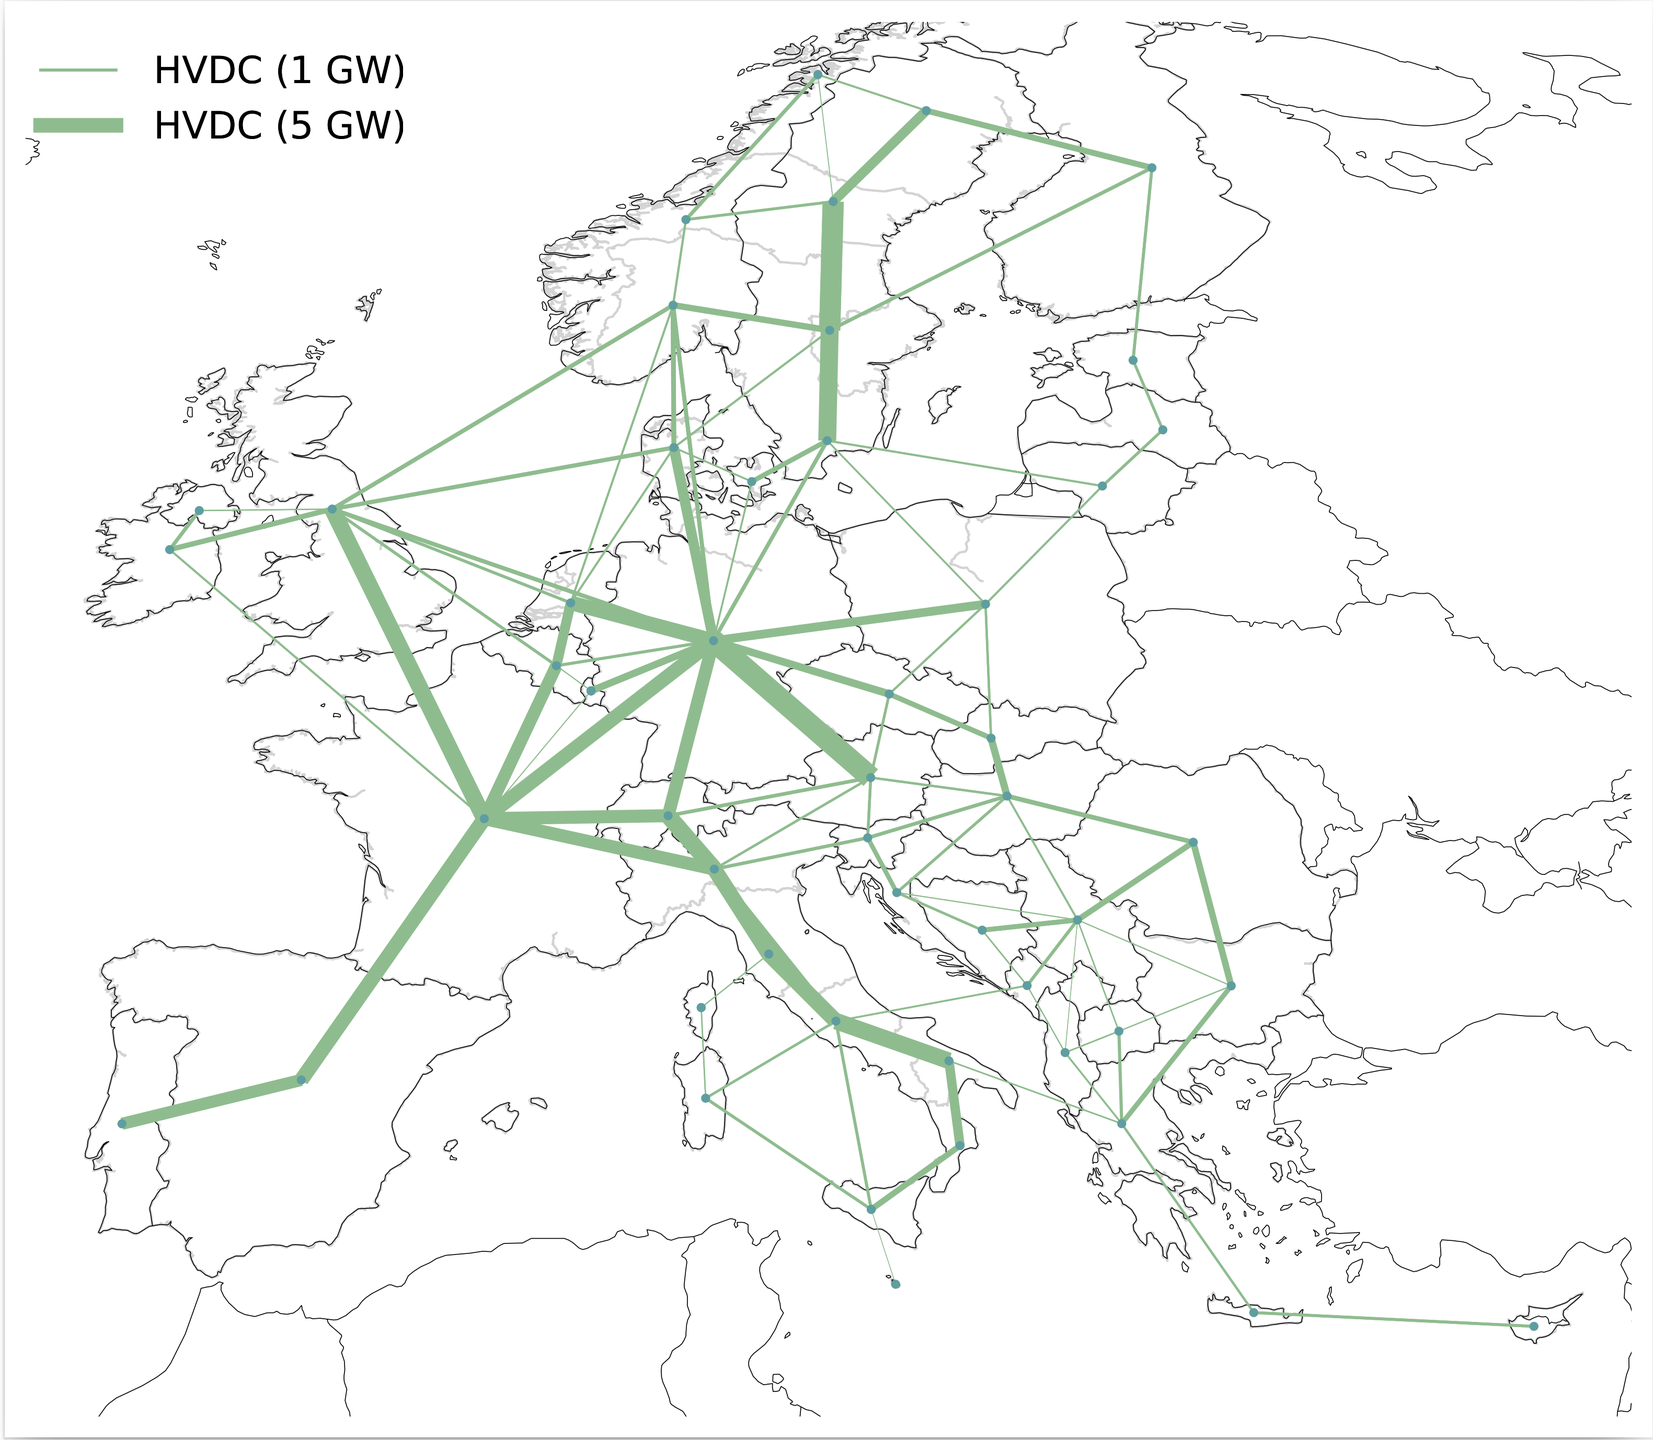
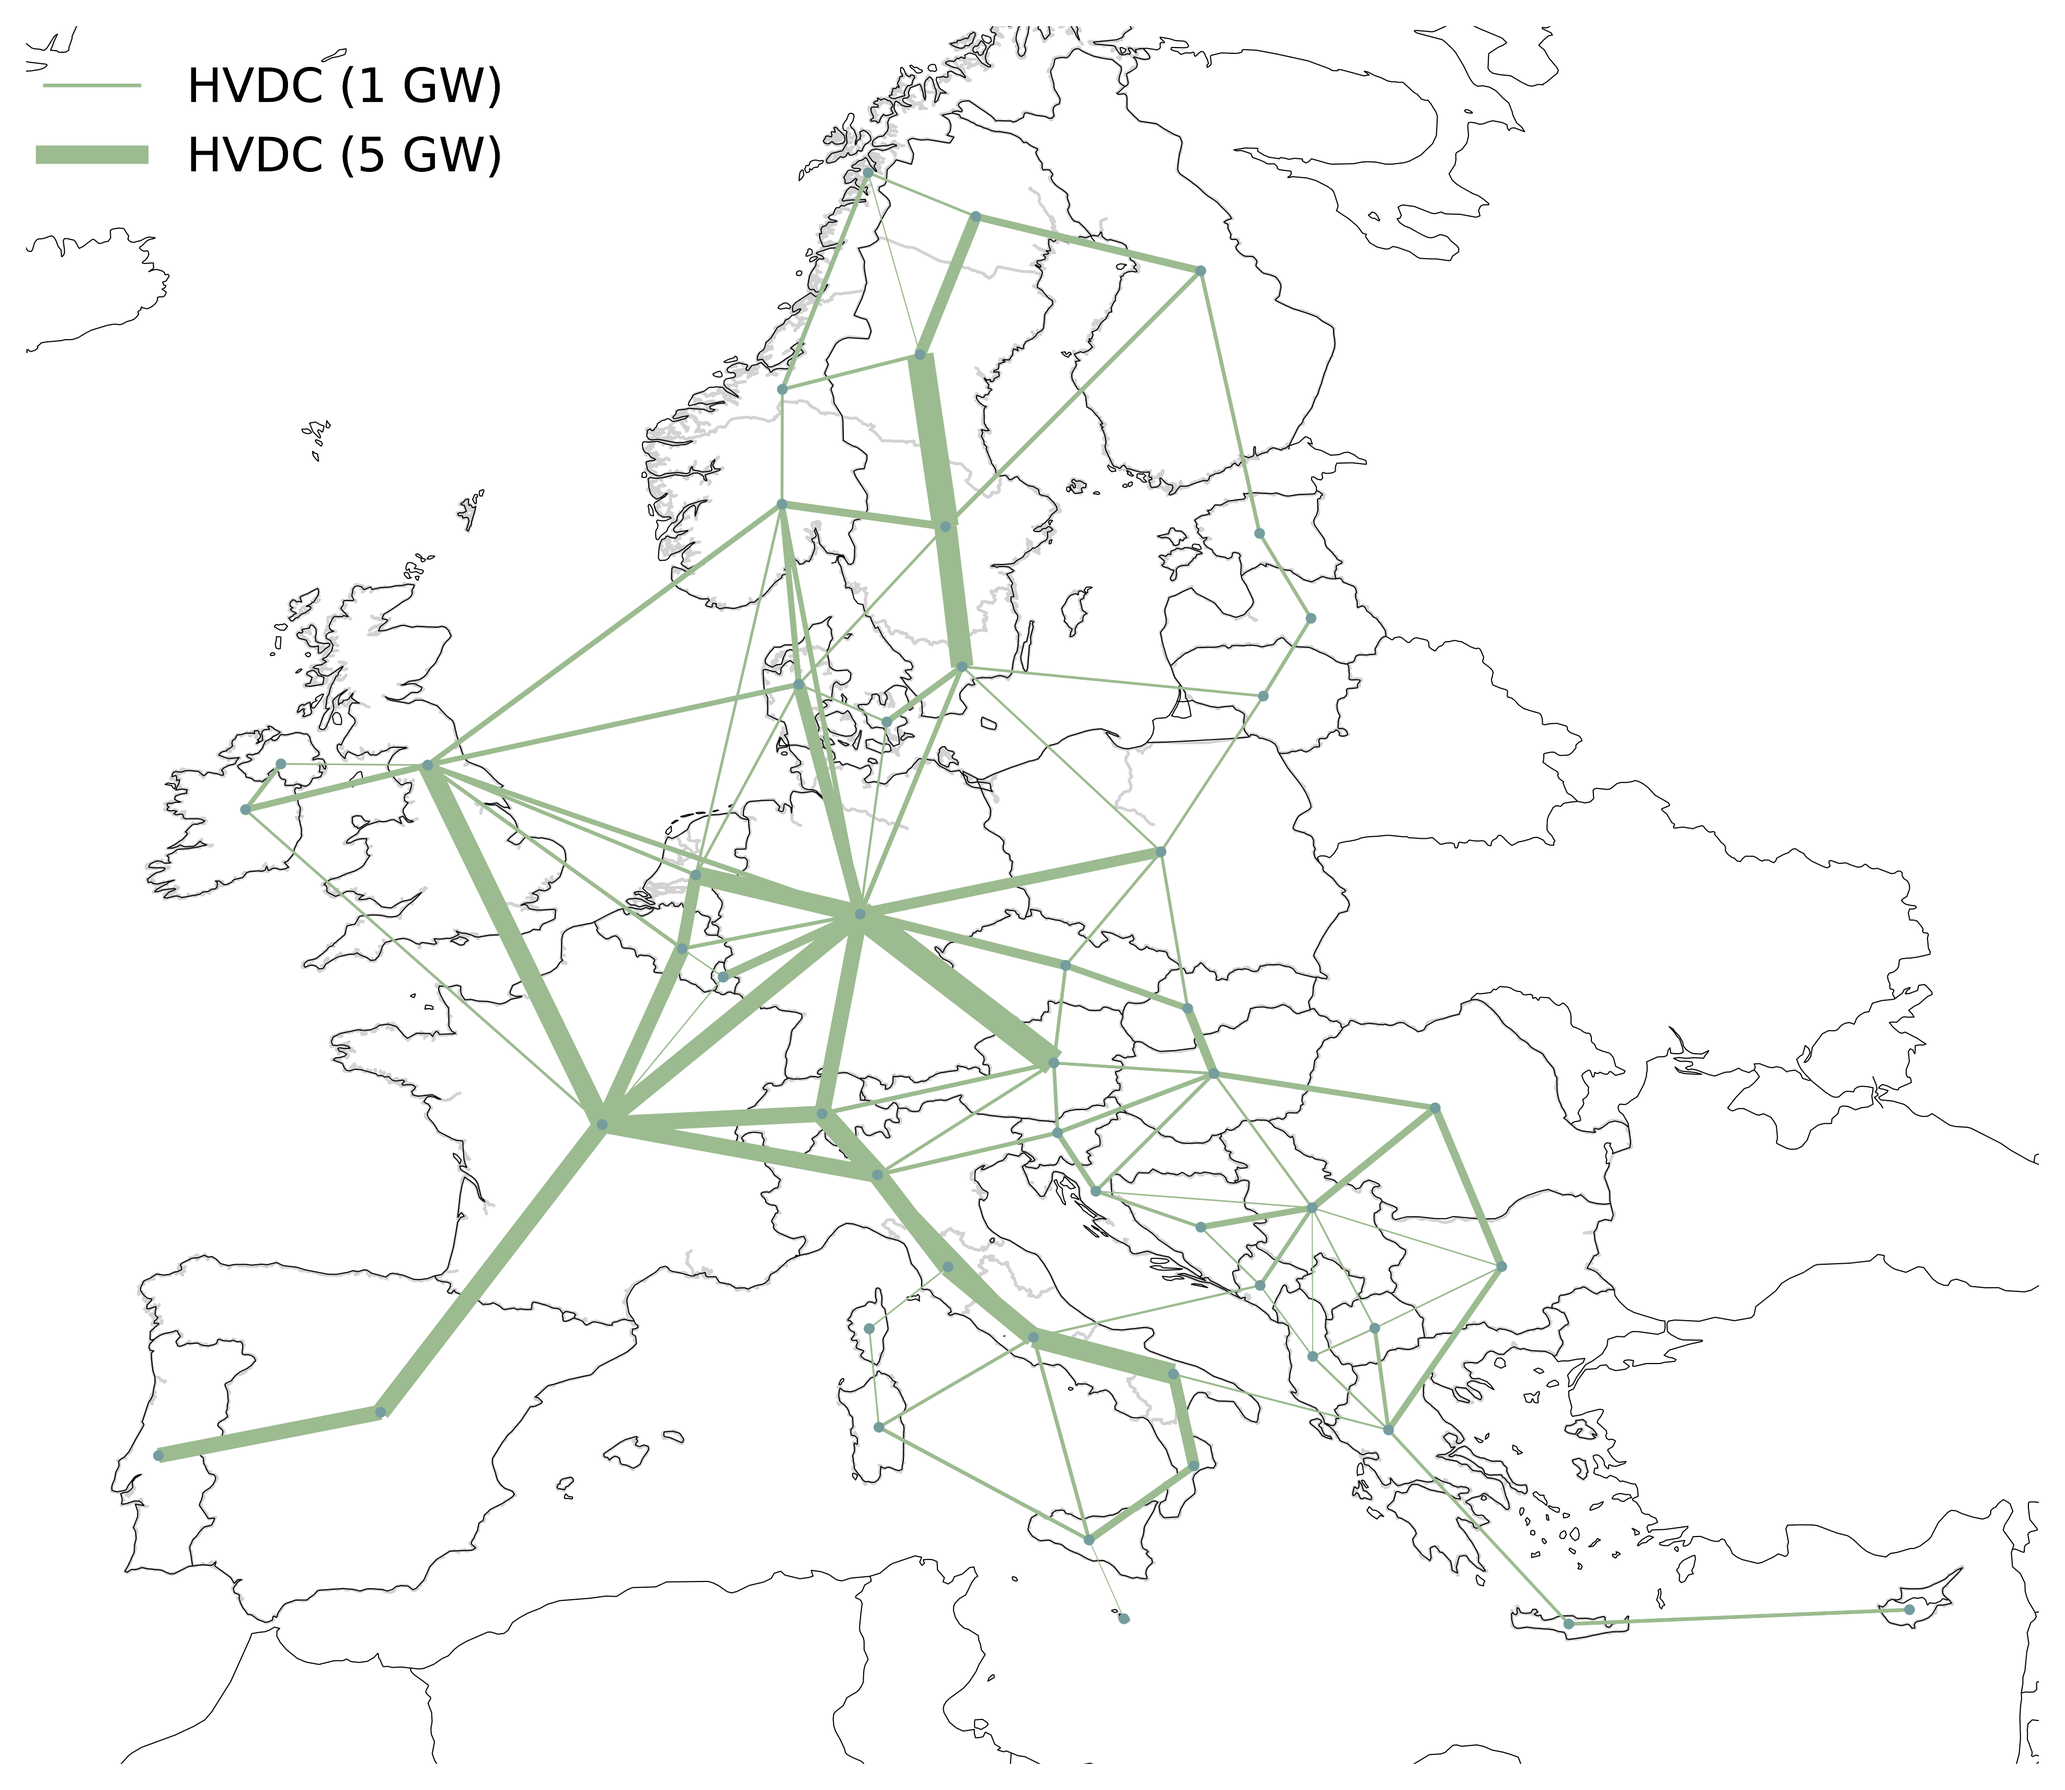
fix: map projections (#282)
* fix: change map projection to LambertAzimuthalEqualArea to better match report figures

* fix: add changed projection also to test config

* doc: add release note

* feat: manually set PlateCaree for offshore map

* doc: update maps for documentation

* doc: update release note

* feat: lower plotting energy threshold

* doc: crop offshore grid map

* config: align tyndp configs plotting settings

diff --git a/scripts/sb/plot_offshore_network.py b/scripts/sb/plot_offshore_network.py
@@ -29,6 +29,7 @@ logger = logging.getLogger(__name__)
 def plot_offshore_map(
     network,
     map_opts,
+    proj,
     map_fn,
     planning_horizons,
     carrier="DC_OH",
@@ -46,6 +47,8 @@ def plot_offshore_map(
         PyPSA network for plotting the offshore grid. Can be either presolving or post solving.
     map_opts : dict
         Map options for plotting.
+    proj : cartopy.crs.Projection
+        Projection to use for plotting.
     map_fn : str
         Path to save the final map plot to.
     planning_horizons : int
@@ -113,7 +116,6 @@ def plot_offshore_map(
 
     # plot transmission network
     logger.info("Plotting offshore transmission network.")
-    proj = load_projection(dict(name="EqualEarth"))
     fig, ax = plt.subplots(figsize=(7, 6), subplot_kw={"projection": proj})
     color_h2 = "#f081dc"
     color_dc = "darkseagreen"
@@ -232,7 +234,7 @@ if __name__ == "__main__":
         regions = gpd.read_file(snakemake.input.regions_onshore).set_index("name")
         map_opts["boundaries"] = regions.total_bounds[[0, 2, 1, 3]] + [-1, 1, -1, 1]
 
-    proj = load_projection(snakemake.params.plotting)
+    proj = load_projection(dict(name="PlateCaree"))
     map_fn = snakemake.output.map
 
     p_nom = "p_nom_opt" if snakemake.params.expanded else "p_nom"
@@ -240,6 +242,7 @@ if __name__ == "__main__":
     plot_offshore_map(
         n,
         map_opts,
+        proj,
         map_fn,
         snakemake.wildcards.planning_horizons,
         carrier=snakemake.wildcards.carrier,

diff --git a/scripts/sb/plot_base_hydrogen_network.py b/scripts/sb/plot_base_hydrogen_network.py
@@ -40,7 +40,7 @@ def group_import_corridors(df):
 
 
 def plot_h2_map_base(
-    network, map_opts, map_fn, expanded=False, regions_for_storage=None
+    network, map_opts, proj, map_fn, expanded=False, regions_for_storage=None
 ):
     """
     Plots the base hydrogen network pipelines capacities, hydrogen buses and import potentials.
@@ -54,6 +54,8 @@ def plot_h2_map_base(
         PyPSA network for plotting the hydrogen grid. Can be either presolving or post solving.
     map_opts : dict
         Map options for plotting.
+    proj : cartopy.crs.Projection
+        Projection to use for plotting.
     map_fn : str
         Path to save the final map plot to.
     expanded : bool, optional
@@ -131,7 +133,6 @@ def plot_h2_map_base(
 
     # plot H2 pipeline capacities and imports
     logger.info("Plotting base H2 pipeline and import capacities.")
-    proj = load_projection(dict(name="EqualEarth"))
     fig, ax = plt.subplots(figsize=(7, 6), subplot_kw={"projection": proj})
     color_h2_pipe = "#499a9c"
     color_h2_imports = "#FFA500"
@@ -263,4 +264,4 @@ if __name__ == "__main__":
     proj = load_projection(snakemake.params.plotting)
     map_fn = snakemake.output.map
 
-    plot_h2_map_base(n, map_opts, map_fn)
+    plot_h2_map_base(n, map_opts, proj, map_fn)

diff --git a/scripts/plot_hydrogen_network.py b/scripts/plot_hydrogen_network.py
@@ -296,7 +296,7 @@ if __name__ == "__main__":
         suffix = "H2" if not options["h2_zones_tyndp"] else "H2 Z2"
         regions.index = regions.index + f" {suffix}"
         plot_h2_map_base(
-            n, map_opts, map_fn, expanded=True, regions_for_storage=regions
+            n, map_opts, proj, map_fn, expanded=True, regions_for_storage=regions
         )
     else:
         plot_h2_map(n, regions, map_fn)

diff --git a/doc/release_notes.rst b/doc/release_notes.rst
@@ -57,11 +57,14 @@ Upcoming Open-TYNDP Release
 
 * Address infeasibilities for DE and GA by adjusting the trajectory of DE00 for the larger existing capacity and by fixing a broadcasting bug in the offshore constraints (https://github.com/open-energy-transition/open-tyndp/pull/283).
 
+* Moved all SB scripts to `scripts/sb/` and rules to `rules/sb.smk`, and renamed CBA rules file from `rules/cba/main.smk` to `rules/cba.smk` for consistency (https://github.com/open-energy-transition/open-tyndp/pull/278).
+
+* Change the projection for maps to LambertAzimuthalEqualArea and PlateCaree to align with TYNDP 2024 reports (https://github.com/open-energy-transition/open-tyndp/pull/282).
+
 * Make sector and TYNDP dependent inputs optional in `prepare_sector_network` to avoid triggering unnecessary prerequisite rules and disable `solar_thermal` (https://github.com/open-energy-transition/open-tyndp/pull/293).
 
-*Moved all SB scripts to `scripts/sb/` and rules to `rules/sb.smk`, and renamed CBA rules file from `rules/cba/main.smk` to `rules/cba.smk` for consistency (https://github.com/open-energy-transition/open-tyndp/pull/278).
-
 * Remove `wget` commands from `retrieve` rules to improve Windows compatibility (https://github.com/open-energy-transition/open-tyndp/pull/304).
+
 
 Upcoming PyPSA-Eur Release
 ================
